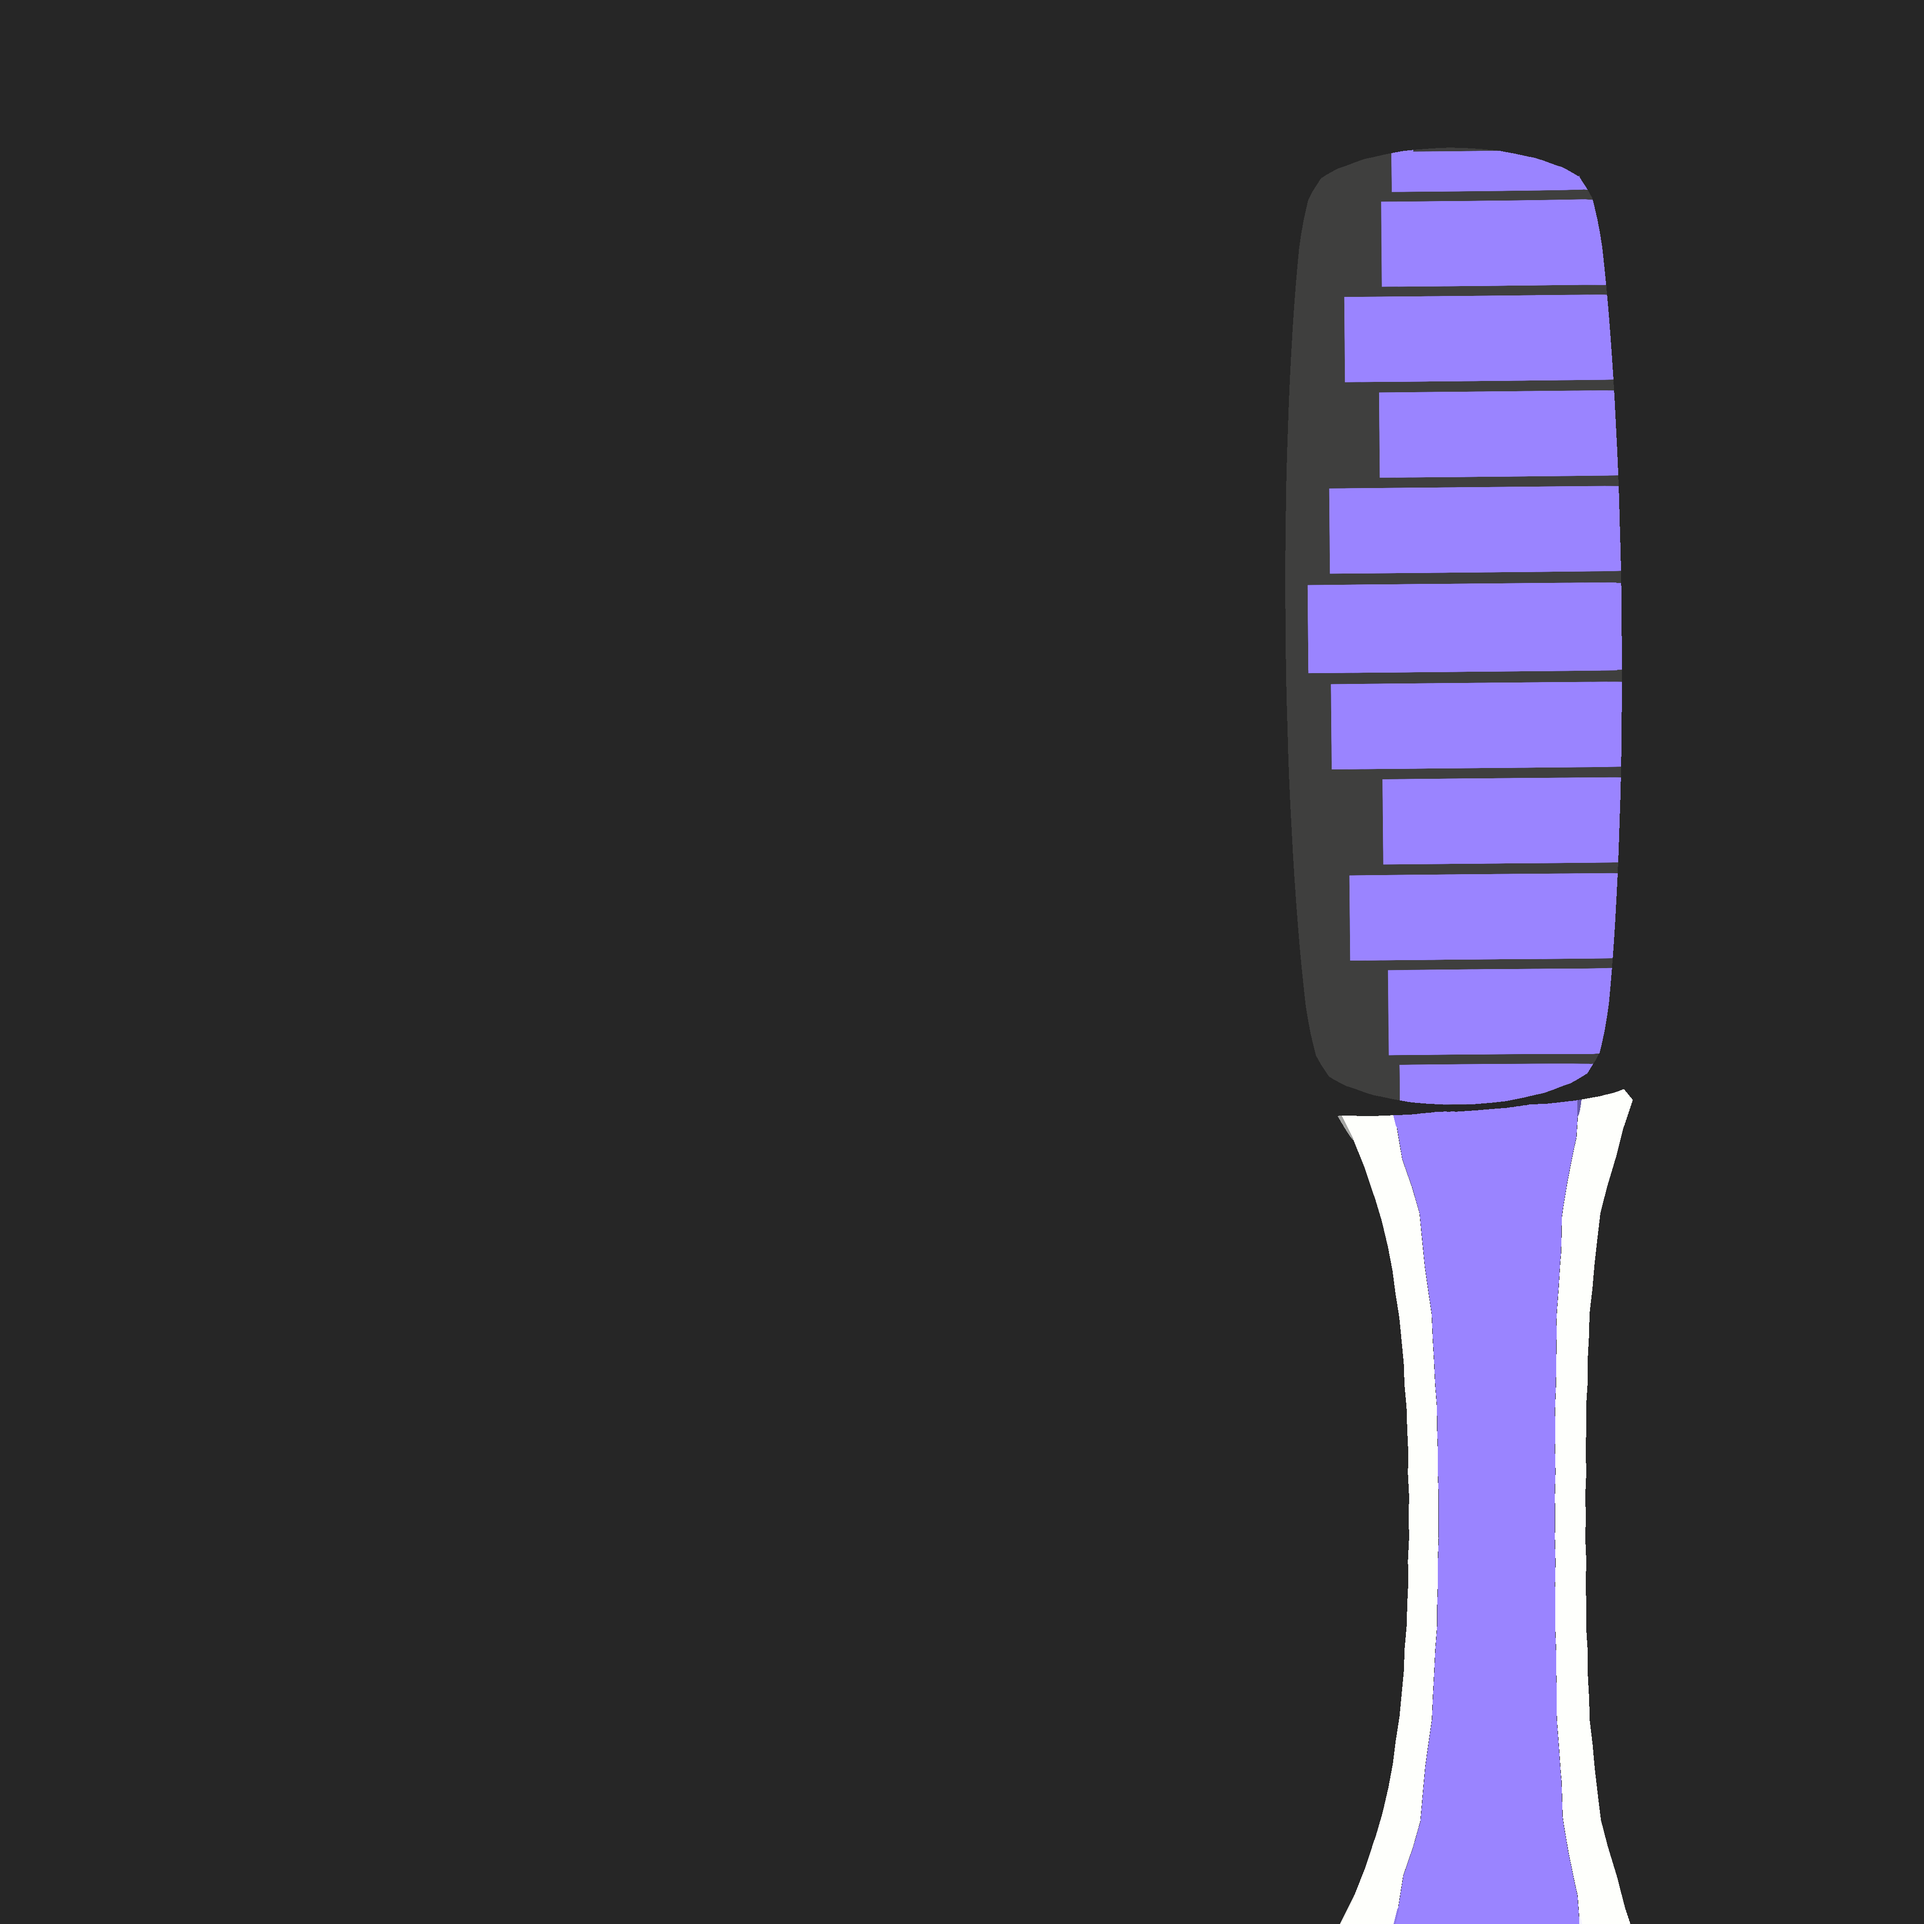
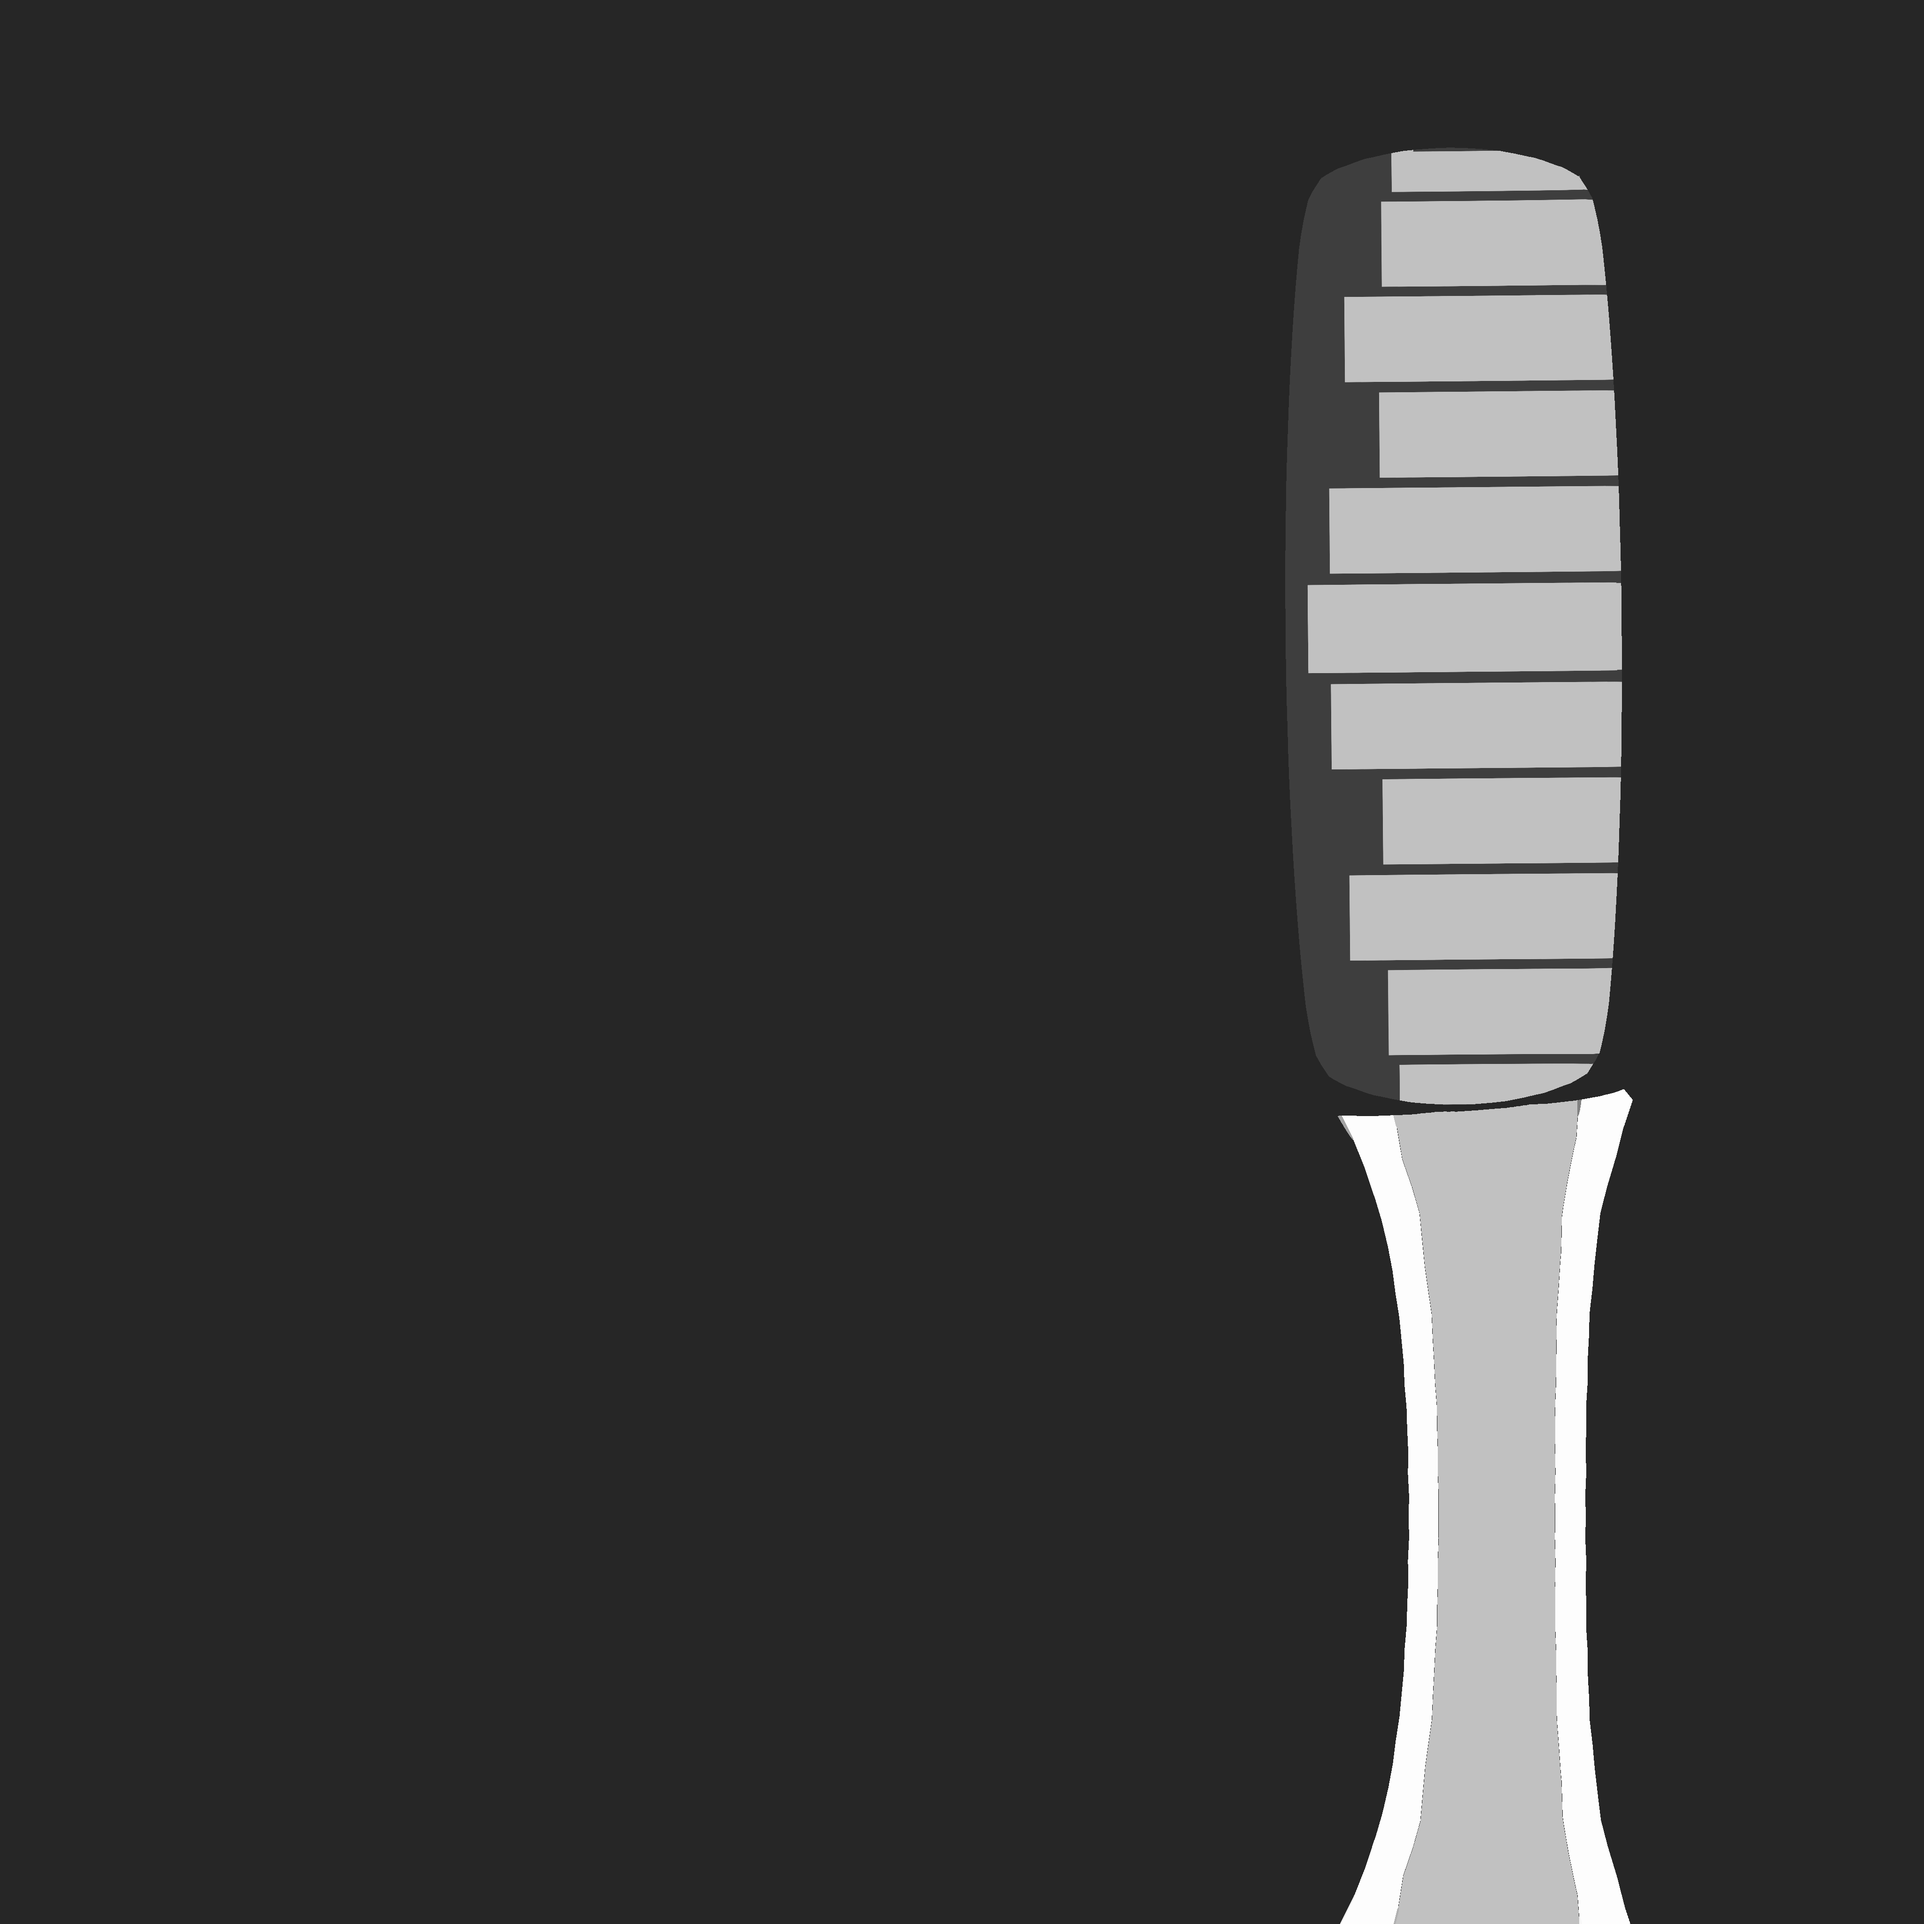
Added color sync to some face components

Changed region(s): [[0.6562, 0.0625, 0.8438, 1.0]]

diff --git a/Assets/Scripts/Entity/AxoModelGenerator.cs b/Assets/Scripts/Entity/AxoModelGenerator.cs
@@ -15,6 +15,26 @@ public class AxoModelGenerator : Mingleton<AxoModelGenerator>
 
     public RuntimeAnimatorController animatorController;
 
+    public static Dictionary<string, Color> colorCodes = new Dictionary<string, Color>()
+    {
+        {"Orange", new Color(255/255.0f,172/255.0f,131/255.0f)},
+        {"Purple", new Color(128/255.0f, 0/255.0f, 128/255.0f)},
+        {"Fuchsia", new Color(255/255.0f,0/255.0f,255/255.0f)},
+        {"Yellow", new Color(255/255.0f,255/255.0f,0/255.0f)},
+        {"Blue", new Color(135/255.0f,206/255.0f,250/255.0f)},
+        {"Cyan", new Color(0/255.0f,255/255.0f,255/255.0f)},
+        {"St Patrick", new Color(0/255.0f,128/255.0f,0/255.0f)},
+        {"Magenta", new Color(255/255.0f,0/255.0f,255/255.0f)}
+    };
+
+    private void Start()
+    {
+        for (int i = 0; i < 9999; i++)
+        {
+            GetAssetsRequired(i);
+        }
+    }
+
     public static Dictionary<string, string> GetAssetsRequired(int id)
     {
         AxoStruct traits = AxoDatabase.Get(id);
@@ -158,9 +178,30 @@ public class AxoModelGenerator : Mingleton<AxoModelGenerator>
                         faceModel.transform.localRotation = handle.Result.transform.localRotation;
                     }
 
+                    var faceMeshRenderer = faceModel.GetComponent<MeshRenderer>();
+                    
+                    var bgSync = faceModel.GetComponent<BackgroundColorSync>();
+                    if (bgSync)
+                    {
+                        for (int i=0; i < faceMeshRenderer.sharedMaterials.Length; i++)
+                        {
+                            if (bgSync.targetMaterial.name == faceMeshRenderer.sharedMaterials[i].name)
+                            {
+                                // Debug.Log(bgSync.targetMaterial.name + " - " + faceMeshRenderer.sharedMaterials[i].name);
+                                // Debug.Log("SETTING COLOR TO " + colorCodes[traits.background]);
+                                var newFaceMat = faceMeshRenderer.materials[i];
+                                newFaceMat.color = colorCodes[traits.background];
+                                if (newFaceMat.IsKeywordEnabled("_EMISSION"))
+                                {
+                                    newFaceMat.SetColor("_EmissionColor", colorCodes[traits.background]);
+                                }
+                                break;
+                            }
+                        }
+                    }
+                    
                     if (traits.type == "Robot")
                     {
-                        var faceMeshRenderer = faceModel.GetComponent<MeshRenderer>();
                         faceMeshRenderer.sharedMaterial = Instantiate(faceMeshRenderer.sharedMaterial);
                         faceMeshRenderer.sharedMaterial.color = Color.HSVToRGB((146 + traits.rhue) / 360.0f, 50f / 100.0f, 75f / 100.0f);
                     }

diff --git a/Assets/Scripts/Entity/ActiveAxoManager.cs b/Assets/Scripts/Entity/ActiveAxoManager.cs
@@ -12,8 +12,9 @@ public class ActiveAxoManager : Mingleton<ActiveAxoManager>
     private List<AxoInfo> active;
     private bool generating;
     
-    void Awake()
+    new void Awake()
     {
+        base.Awake();
         active = new List<AxoInfo>();
     }
     

diff --git a/Assets/Scripts/Entity/BackgroundColorSync.cs b/Assets/Scripts/Entity/BackgroundColorSync.cs
@@ -1,0 +1,6 @@
+using UnityEngine;
+
+public class BackgroundColorSync : MonoBehaviour
+{
+    public Material targetMaterial;
+}
